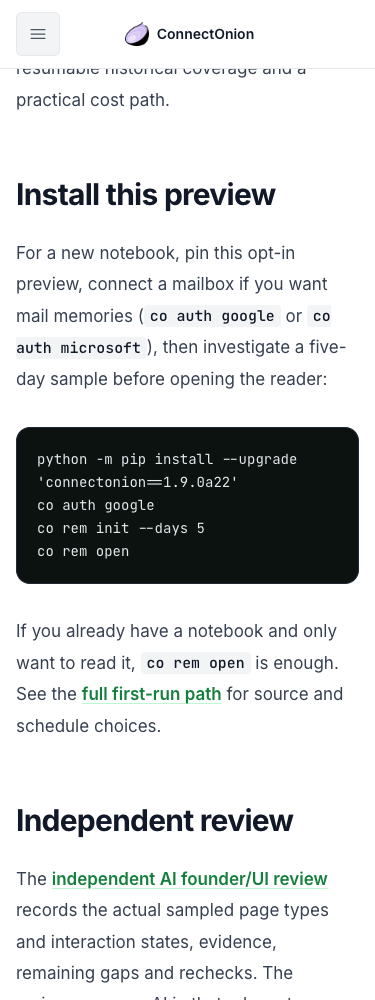
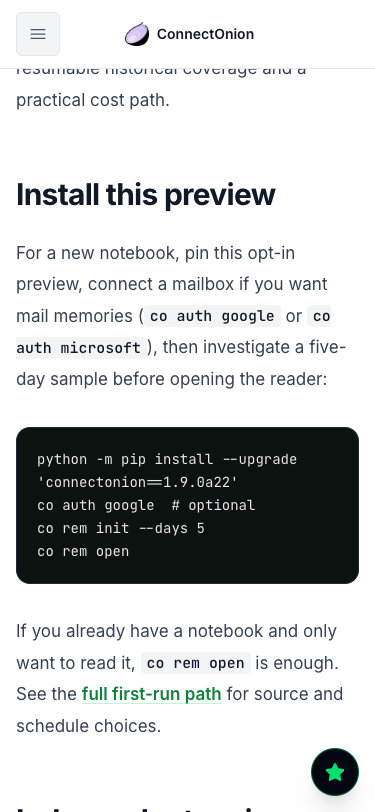
[docs] Keep star panel out of first-run content

diff --git a/components/GitHubStarBanner.tsx b/components/GitHubStarBanner.tsx
@@ -1,17 +1,19 @@
 /**
  * @purpose GitHub star banner promoting repository with live star count and founder chat offer
- * @context Floats at bottom-right, appears only after the reader scrolls past the first
- *          screen, dismissible with localStorage persistence
+ * @context A small launcher floats at bottom-right after the reader scrolls past the
+ *          first screen; its full panel opens on request and dismissal persists
  * @llm-note Uses GitHub API for live star count, dark theme matching site design (gray-950),
  *           implements slide-in animation, persists dismissal state to avoid showing again
  *
- * Two things here were bugs, do not reintroduce them:
+ * These bugs must not return:
  *   1. It used to appear on a timer, which meant it covered the hero terminal on first
  *      paint — the one thing the page exists to show. It is scroll-gated now.
  *   2. The star count fetched github.com/wu-changxing/connectonion, which is not where
  *      the repo lives. It 404s, so the count silently never rendered.
  *   3. Release status is a decision surface. The banner must not cover candidate
  *      versions, promotion requirements, or blocker evidence on /releases.
+ *   4. The full panel covered first-run commands and reference text on phones.
+ *      Keep it behind the small launcher until the reader opens it.
  */
 'use client'
 
@@ -25,8 +27,11 @@ export default function GitHubStarBanner() {
   const [isVisible, setIsVisible] = useState(false)
   const [starCount, setStarCount] = useState<number | null>(null)
   const [isDismissed, setIsDismissed] = useState(false)
+  const [isExpanded, setIsExpanded] = useState(false)
 
   useEffect(() => {
+    setIsVisible(false)
+    setIsExpanded(false)
     if (pathname === '/releases' || isTrialPage) return
 
     const dismissed = localStorage.getItem('github-star-banner-dismissed')
@@ -59,6 +64,7 @@ export default function GitHubStarBanner() {
 
   const handleDismiss = () => {
     setIsVisible(false)
+    setIsExpanded(false)
     localStorage.setItem('github-star-banner-dismissed', 'true')
     setIsDismissed(true)
   }
@@ -76,44 +82,56 @@ export default function GitHubStarBanner() {
         isVisible ? 'translate-x-0 opacity-100' : 'translate-x-[120%] opacity-0'
       }`}
     >
-      <div className="bg-gray-950 border border-gray-800 rounded-2xl shadow-2xl p-5 sm:p-6 max-w-[300px] sm:max-w-[340px] relative overflow-hidden">
-        {/* Subtle glow behind star */}
-        <div className="absolute -top-6 -right-6 w-24 h-24 bg-green-400/10 rounded-full blur-2xl pointer-events-none" />
+      {isExpanded ? (
+        <div className="bg-gray-950 border border-gray-800 rounded-2xl shadow-2xl p-5 sm:p-6 max-w-[300px] sm:max-w-[340px] relative overflow-hidden">
+          {/* Subtle glow behind star */}
+          <div className="absolute -top-6 -right-6 w-24 h-24 bg-green-400/10 rounded-full blur-2xl pointer-events-none" />
 
-        <button
-          onClick={handleDismiss}
-          className="absolute top-1 right-1 min-h-[48px] min-w-[48px] flex items-center justify-center text-gray-600 hover:text-gray-400 transition-colors"
-          aria-label="Close banner"
-        >
-          <FaTimes className="w-3 h-3" />
-        </button>
+          <button
+            onClick={handleDismiss}
+            className="absolute top-1 right-1 min-h-[48px] min-w-[48px] flex items-center justify-center text-gray-600 hover:text-gray-400 transition-colors"
+            aria-label="Close banner"
+          >
+            <FaTimes className="w-3 h-3" />
+          </button>
 
-        {/* Star icon with pulse ring */}
-        <div className="relative inline-flex mb-4">
-          <div className="absolute inset-0 bg-green-400/20 rounded-full animate-ping" />
-          <div className="relative w-11 h-11 bg-green-400/15 border border-green-400/30 rounded-full flex items-center justify-center">
-            <FaStar className="w-5 h-5 text-green-400" />
+          {/* Star icon with pulse ring */}
+          <div className="relative inline-flex mb-4">
+            <div className="absolute inset-0 bg-green-400/20 rounded-full animate-ping" />
+            <div className="relative w-11 h-11 bg-green-400/15 border border-green-400/30 rounded-full flex items-center justify-center">
+              <FaStar className="w-5 h-5 text-green-400" />
+            </div>
           </div>
+
+          <h3 className="font-bold text-base text-white mb-1">
+            Star us on GitHub
+          </h3>
+          <p className="text-gray-400 text-sm leading-relaxed mb-4">
+            If ConnectOnion saves you time, a ⭐ goes a long way — and earns you a coffee chat with our founder.
+          </p>
+
+          <button
+            onClick={handleStarClick}
+            className="w-full min-h-[48px] bg-green-500 hover:bg-green-400 text-gray-950 font-semibold py-2.5 px-4 rounded-xl transition-colors flex items-center justify-center gap-2 text-sm"
+          >
+            <FaStar className="w-3.5 h-3.5" />
+            <span>Star on GitHub</span>
+            {starCount !== null && (
+              <span className="text-gray-700 text-xs font-normal">· {starCount.toLocaleString()} stars</span>
+            )}
+          </button>
         </div>
-
-        <h3 className="font-bold text-base text-white mb-1">
-          Star us on GitHub
-        </h3>
-        <p className="text-gray-400 text-sm leading-relaxed mb-4">
-          If ConnectOnion saves you time, a ⭐ goes a long way — and earns you a coffee chat with our founder.
-        </p>
-
+      ) : (
         <button
-          onClick={handleStarClick}
-          className="w-full min-h-[48px] bg-green-500 hover:bg-green-400 text-gray-950 font-semibold py-2.5 px-4 rounded-xl transition-colors flex items-center justify-center gap-2 text-sm"
+          type="button"
+          onClick={() => setIsExpanded(true)}
+          className="flex h-12 w-12 items-center justify-center rounded-full border border-green-400/40 bg-gray-950 text-green-400 shadow-xl hover:bg-gray-900"
+          aria-label="Show GitHub star options"
+          title="Star ConnectOnion on GitHub"
         >
-          <FaStar className="w-3.5 h-3.5" />
-          <span>Star on GitHub</span>
-          {starCount !== null && (
-            <span className="text-gray-700 text-xs font-normal">· {starCount.toLocaleString()} stars</span>
-          )}
+          <FaStar className="h-5 w-5" />
         </button>
-      </div>
+      )}
     </div>
   )
 }

diff --git a/public/evidence/v1.9.0a22/REVIEW.md b/public/evidence/v1.9.0a22/REVIEW.md
@@ -82,7 +82,8 @@ On a phone, swipe the table left to read the Change and Recheck columns.
 | P2 | The `/releases/archive` Design Journal DD-053 link resolved under `/releases/` and returned 404. | Point it at the existing styled Design Journal route. | Open the link from the rendered archive; expect HTTP 200 and the intended decision article. |
 | P2 | The new Design Journal's inferred category was Remote Browser, although the article is about REM project attribution. Its subtitle repeated the opening sentence and the body offered no link to the evidence review or follow-up issue. A reader could misread the subject and could not verify the next step from the story. | Give the article explicit REM, Memory and Design Journal tags, a distinct description, and links to the a22 review and #2195. | In the rebuilt local production site at 1440 and 375 px, the category and description match the subject; the review link opens the styled report and #2195 has the correct target. No private name appears in the public article. |
 | P3 | The generated blog article's icon-only phone Copy control measured 42×44 px, below the 44 px touch target used elsewhere. | Set its shared minimum width to 44 px and give it an explicit accessible name. | At 375 px the button measures 44×44 px; at both widths it copies the 2,728-character Markdown article. |
-| P3 | On a 375 px phone, the global Star us banner can cover the lower part of a review table or install block while scrolling. Its 48 px Close banner control restores the content, but the interruption slows evidence reading. | Keep the dismiss control visible in this release; revisit the global banner placement for long reference pages. | The independent reviewer closed it and read the full horizontally scrollable table and install block. Recheck on another long phone page before changing the shared banner. |
+| P2 | On a fresh 375 px visit, the 300×262 px Star us panel covered `co rem open` and existing-notebook guidance after the release first-run jump. It also hid horizontally swiped review-table cells and `/cli/rem` reference text. The desktop panel covered the right edge of long content. A reader could miss a required step even though Close dismissed the panel. | Show a 48×48 px star launcher after scrolling and expand the panel only when the reader activates it. Keep the panel's persistent Close action. | The independent local production-mode recheck covered the release, review and CLI pages at 375×812 and 1440×900. All four install commands, review-table right cells and CLI text remained readable before activation. Enter and Space expanded the panel; Tab reached its 48×48 Close button, and Enter dismissed it. No JS errors or horizontal overflow. Recheck after production deployment. |
+| P3 | Keyboard activation of the star launcher returns focus to the page body when the launcher is replaced by the panel. The next Tab reaches Close, and the panel is nonmodal. | If the panel becomes a dialog, move focus into it and add Escape dismissal. | The current keyboard path can reach and dismiss the panel; recheck focus placement if its interaction model changes. |
 | P2 | After publication, the a22 release notes installed the pinned package and ran `co rem open` without first creating a notebook. Their install section began around document y=3,851 px on a 375 px phone. A first-time reader could open an empty result and miss the path to the promised pages. | Put a first-run jump link near the title. In the install section, show `co auth google` or Microsoft, `co rem init --days 5`, then `co rem open`; label `co rem open` alone as the existing-notebook viewing path and link to `/rem#start`. | In the local production-mode recheck at 1440 and 375 px, the near-title jump landed on the install heading, the exact a22 pin came before auth, init and open, the existing-notebook path was separate, and `/rem#start` worked. Recheck these on the deployed page. |
 | P2 | The shared phone docs header's “Copy page as markdown” target measured 74×30 px on `/rem` and `/cli/rem`, small for touch even though clipboard copying worked. | Give the shared control at least 44 px height and width without widening the header past 375 px. | In the local production-mode recheck, both routes measured 74×44 px at 375 px, copied the correct Markdown and had no overflow. Recheck on the deployed pages. |
 

diff --git a/public/releases/1.9.0a22.md b/public/releases/1.9.0a22.md
@@ -79,7 +79,7 @@ five-day sample before opening the reader:
 
 ```bash
 python -m pip install --upgrade 'connectonion==1.9.0a22'
-co auth google
+co auth google  # optional
 co rem init --days 5
 co rem open
 ```
